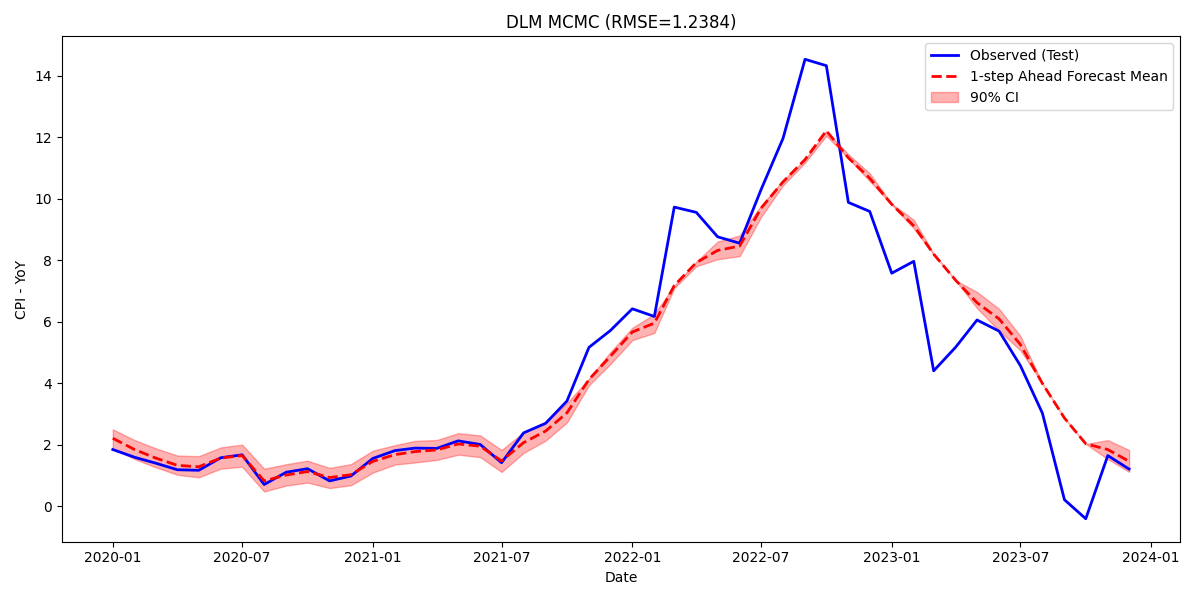
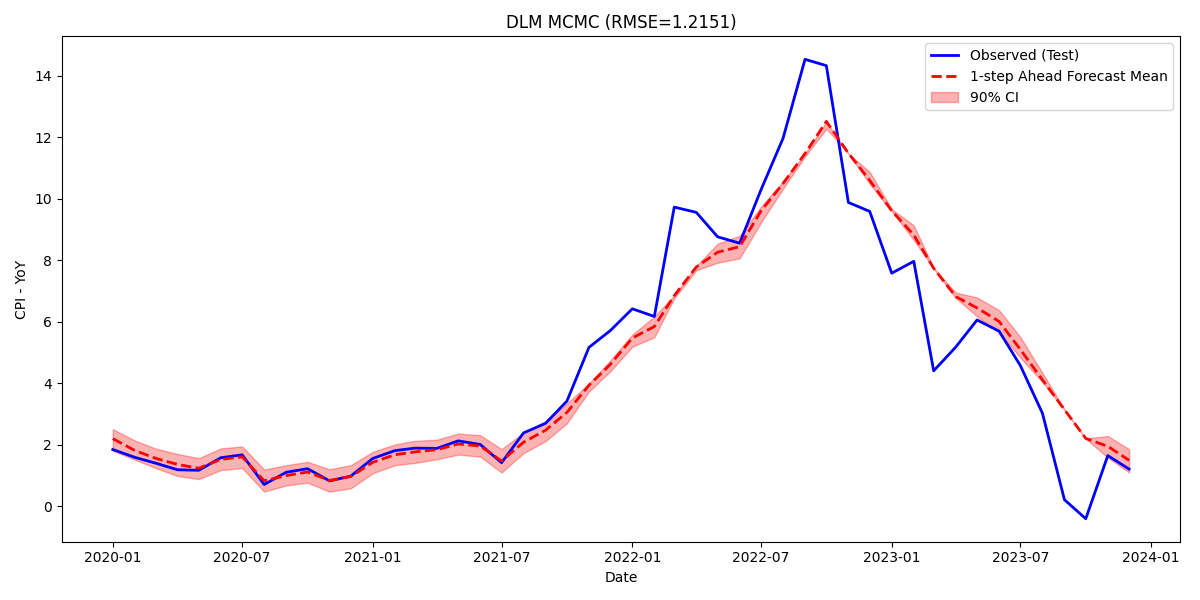
final files

diff --git a/src/bayesian_dlm_reg.py b/src/bayesian_dlm_reg.py
@@ -1,4 +1,5 @@
 import numpy as np
+import pandas as pd
 import jax
 import jax.numpy as jnp
 import numpyro
@@ -53,18 +54,36 @@ def forecast_one_step(beta_prev_samples, X_next, sigma_samples, beta_noise_scale
 
 def run_dlm_dynamic_regression(df, target_col, train_start, train_end, test_start, test_end,
                                num_warmup=1500, num_samples=5000, num_chains=4):
+    
+    keep_cols = [
+        "Unemployment - %",
+        "Economic_sentiment", 
+        "Exchangerate_CPI",
+        "10years_gov_bond_rate"
+    ]
+    
+    X_full = df[keep_cols].copy()
+    y_full = df[target_col].copy()
+    
+    X_full, y_full = X_full.align(y_full, join='inner', axis=0)
+    
+    mask = ~(X_full.isnull().any(axis=1) | y_full.isnull())
+    X_clean = X_full[mask]
+    y_clean = y_full[mask]
+    
     X_train, y_train, X_test, y_test = train_test_split_time_series(
-        df, train_start, train_end, test_start, test_end, target_col
+        pd.concat([X_clean, y_clean], axis=1), 
+        train_start, train_end, test_start, test_end, target_col
     )
-    X_train, y_train = X_train.align(y_train, join='inner', axis=0)
-    X_train = X_train.dropna()
-    y_train = y_train.loc[X_train.index]
-
+    X_train = X_train[keep_cols]
+    X_test = X_test[keep_cols]
+    
     scaler_X = StandardScaler()
     scaler_y = StandardScaler()
-
+    
     X_train_scaled = scaler_X.fit_transform(X_train)
     y_train_scaled = scaler_y.fit_transform(y_train.values.reshape(-1, 1)).flatten()
+    
 
     kernel = NUTS(dlm_model)
     mcmc = MCMC(kernel, num_warmup=num_warmup, num_samples=num_samples, num_chains=num_chains)
@@ -105,6 +124,10 @@ def run_dlm_dynamic_regression(df, target_col, train_start, train_end, test_star
     lower_bound = np.percentile(forecasts_original, 5, axis=1)
     upper_bound = np.percentile(forecasts_original, 95, axis=1)
 
+    # Compute RMSE on mean forecast
+    rmse_test = np.sqrt(np.mean((mean_forecast - y_test.values) ** 2))
+    print(f"NumPyro DLM One-Step Ahead RMSE (Test): {rmse_test:.4f}")
+
     # Plot forecast vs observed with credible intervals
     plt.figure(figsize=(12, 6))
     plt.plot(y_test.index.to_numpy(), y_test.values, label="Observed (Test)", color="blue", linewidth=2)
@@ -118,8 +141,6 @@ def run_dlm_dynamic_regression(df, target_col, train_start, train_end, test_star
     plt.savefig("results/dlm_regression_forecast.png")
     plt.close()
 
-    # Compute RMSE on mean forecast
-    rmse_test = np.sqrt(np.mean((mean_forecast - y_test.values) ** 2))
-    print(f"NumPyro DLM One-Step Ahead RMSE (Test): {rmse_test:.4f}")
+    
 
     return samples, rmse_test

diff --git a/src/bayesian_dlm_reg_in.py b/src/bayesian_dlm_reg_in.py
@@ -25,7 +25,7 @@ def dlm_model(X, y=None):
 
 
 def run_dlm_dynamic_regression_in(df, target_col, num_warmup=1500, num_samples=5000, num_chains=4):
-    """ keep_cols = [
+    keep_cols = [
         "Unemployment - %",
         "Economic_sentiment",
         "Exchangerate_CPI",
@@ -33,9 +33,6 @@ def run_dlm_dynamic_regression_in(df, target_col, num_warmup=1500, num_samples=5
     ]
 
     X = df[keep_cols].copy()
-    y = df[target_col].copy() """
-
-    X = df.drop(columns=[target_col]).copy()
     y = df[target_col].copy()
 
     X, y = X.align(y, join='inner', axis=0)
@@ -72,7 +69,7 @@ def run_dlm_dynamic_regression_in(df, target_col, num_warmup=1500, num_samples=5
     plt.title("Posterior Mean of Time-Varying Coefficients (NumPyro)")
     plt.legend()
     plt.tight_layout()
-    plt.savefig("results/dlm_dynamic_betas_numpyro.png")
+    plt.savefig("results/dlm_dynamic_betas_numpyro_in.png")
     plt.close()
 
     # Forecast vs Actual

diff --git a/main.py b/main.py
@@ -234,8 +234,8 @@ print("\n" + "=" * 60)
 print("📊 Generating comparison plots and saving results...")
 
 # 📊 5. Comparison
-plot_model_comparison(rmse_results_out, filename="results/model_comparison_out_sample.png")
-plot_model_comparison(rmse_results_in, filename="results/model_comparison_in_sample.png")
+plot_model_comparison(rmse_results_out)
+plot_model_comparison(rmse_results_in)
 
 
 # 📝 Save RMSE to CSV
